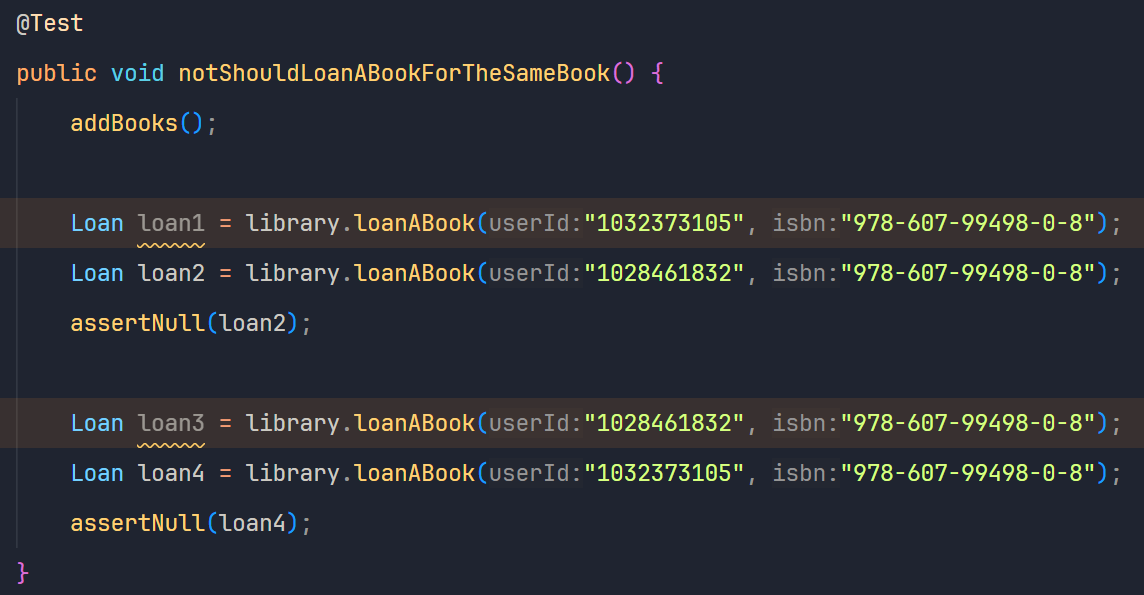
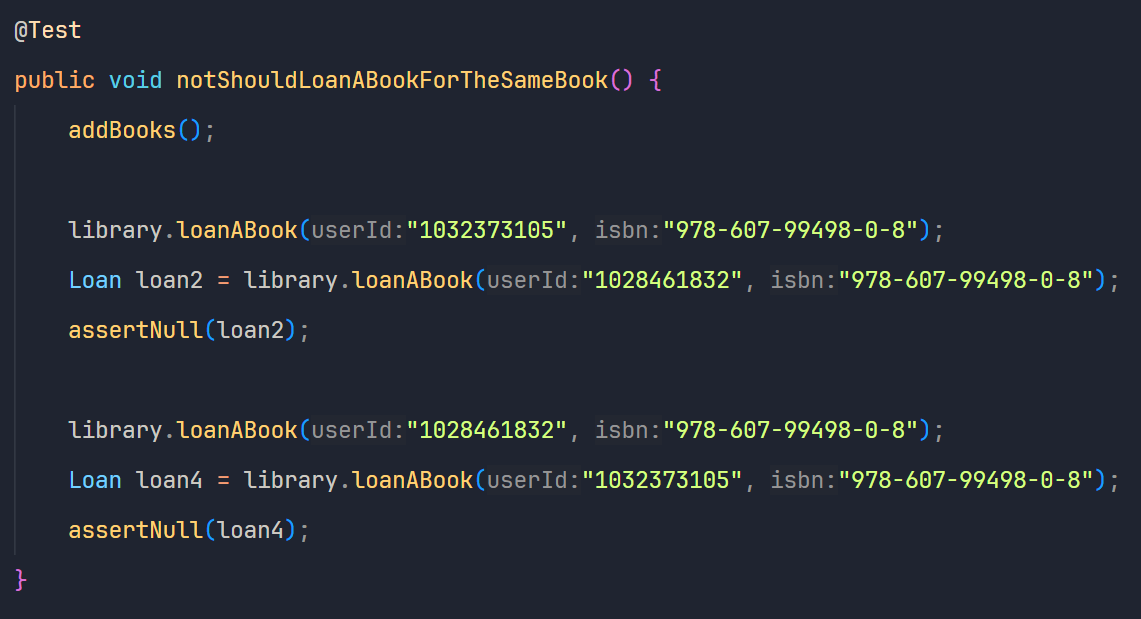
Implemente la prueba shouldDecreaseBookCountWhenLoanIsCreated

diff --git a/src/test/java/edu/eci/cvds/tdd/library/LibraryTest.java b/src/test/java/edu/eci/cvds/tdd/library/LibraryTest.java
@@ -121,9 +121,9 @@ public class LibraryTest {
         addBooks();
         
         // Loan to Daniel
-        Loan loan1 = library.loanABook("1032373105", "978-847-88871-9-4");
-        Loan loan2 = library.loanABook("1032373105", "978-849-75922-0-8");
-        Loan loan3 = library.loanABook("1032373105", "978-958-30044-4-5");
+        library.loanABook("1032373105", "978-847-88871-9-4");
+        library.loanABook("1032373105", "978-849-75922-0-8");
+        library.loanABook("1032373105", "978-958-30044-4-5");
         
         // Cannot loan to Vicente
         Loan loan4 = library.loanABook("1028461832", "978-847-88871-9-4");
@@ -149,12 +149,31 @@ public class LibraryTest {
     public void notShouldLoanABookForTheSameBook() {
         addBooks();
         
-        Loan loan1 = library.loanABook("1032373105", "978-607-99498-0-8");
+        library.loanABook("1032373105", "978-607-99498-0-8");
         Loan loan2 = library.loanABook("1028461832", "978-607-99498-0-8");
         assertNull(loan2);
 
-        Loan loan3 = library.loanABook("1028461832", "978-607-99498-0-8");
+        library.loanABook("1028461832", "978-607-99498-0-8");
         Loan loan4 = library.loanABook("1032373105", "978-607-99498-0-8");
         assertNull(loan4);
+    }
+
+    @Test
+    public void shouldDecreaseBookCountWhenLoanIsCreated() {
+        addBooks();
+
+        assertEquals(3, library.getNumberBooks("978-607-99498-0-8"));
+        library.loanABook("1032373105", "978-607-99498-0-8");
+        assertEquals(2, library.getNumberBooks("978-607-99498-0-8"));
+        library.loanABook("1028461832", "978-607-99498-0-8");
+        assertEquals(1, library.getNumberBooks("978-607-99498-0-8"));
+        
+        assertEquals(1, library.getNumberBooks("978-849-75922-0-8"));
+        library.loanABook("1032373105", "978-849-75922-0-8");
+        assertEquals(0, library.getNumberBooks("978-849-75922-0-8"));
+
+        assertEquals(1, library.getNumberBooks("978-958-30044-4-5"));
+        library.loanABook("1028461832", "978-958-30044-4-5");
+        assertEquals(0, library.getNumberBooks("978-958-30044-4-5"));
     }
 }

diff --git a/src/main/java/edu/eci/cvds/tdd/library/Library.java b/src/main/java/edu/eci/cvds/tdd/library/Library.java
@@ -87,4 +87,8 @@ public class Library {
     public int getNumberBooks(Book book) {
         return books.get(book);
     }
+
+    public int getNumberBooks(String isbn) {
+        return 0;
+    }
 }
